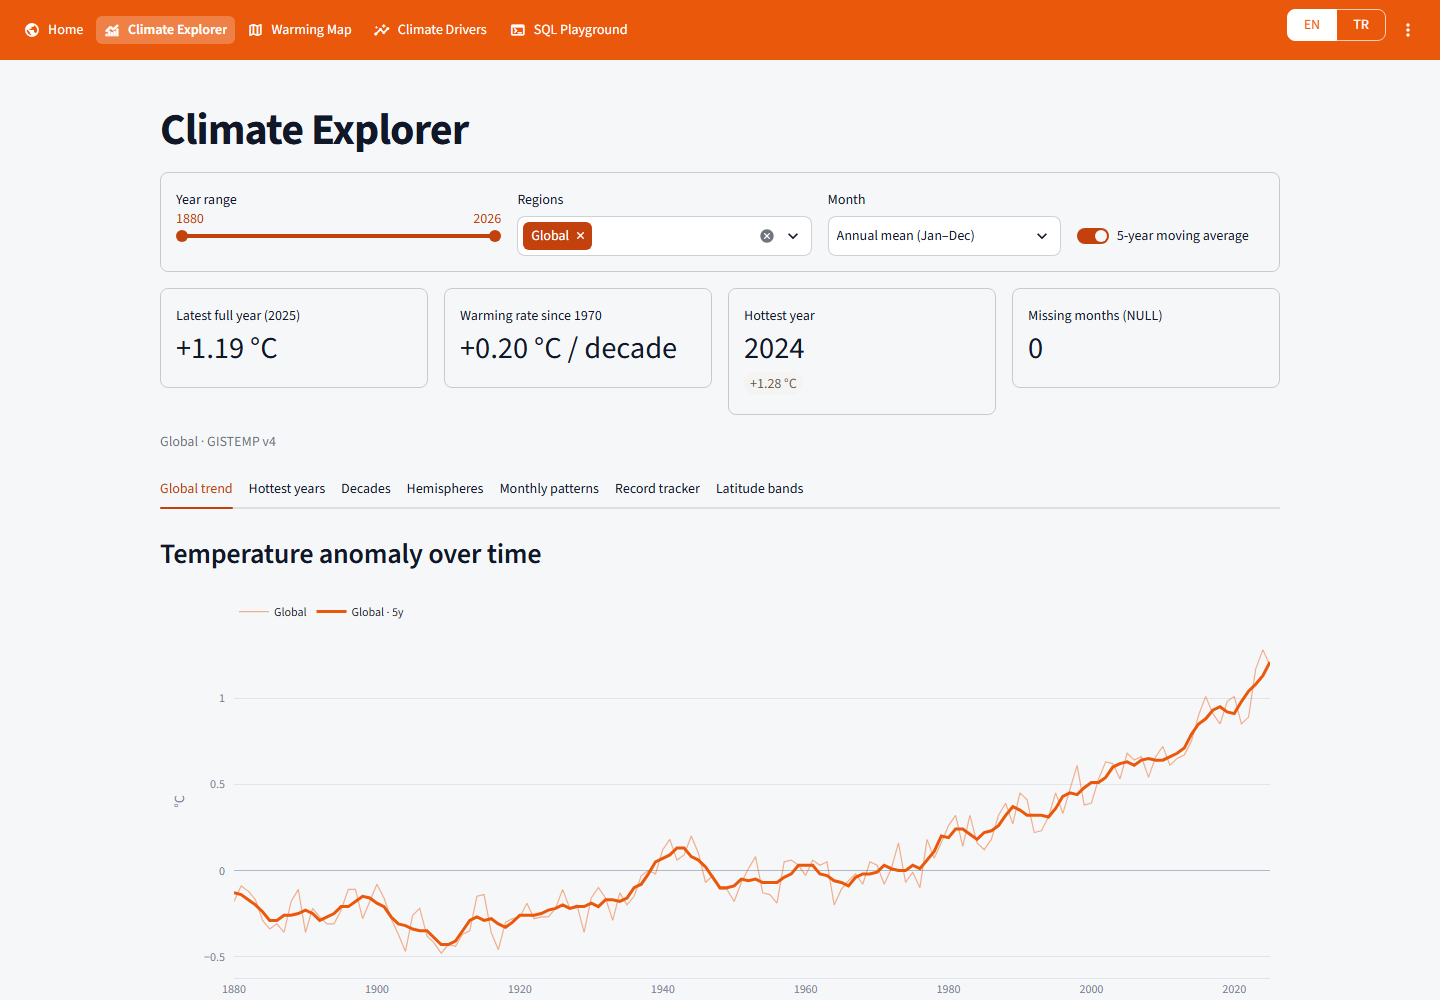
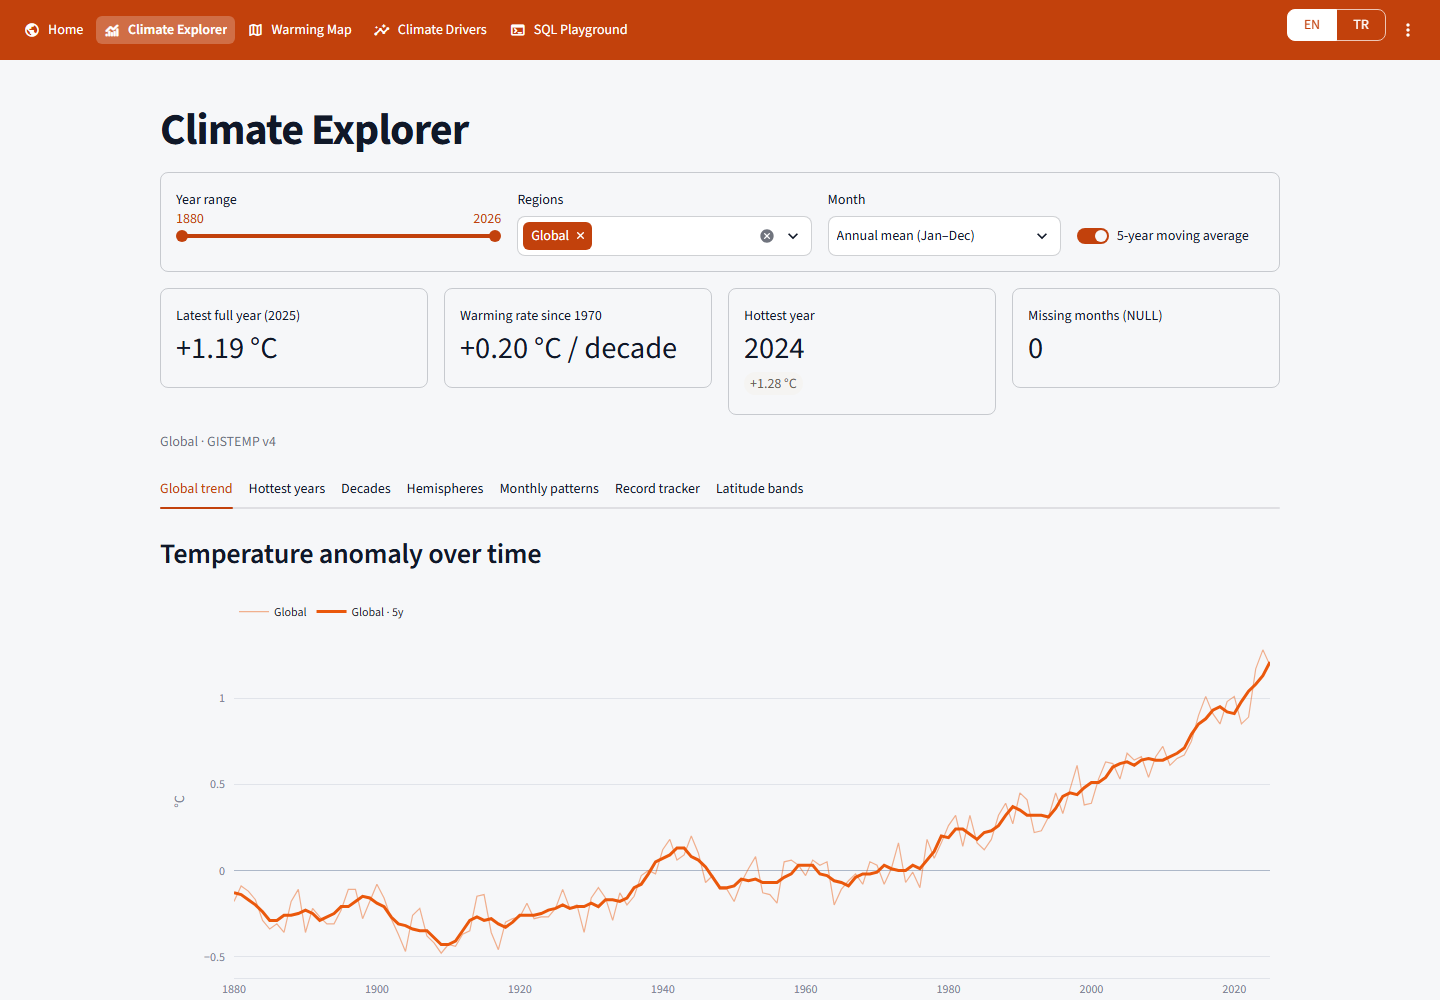
Match the top bar to the accent colour and rebalance the home hero around the globe

Changed region(s): [[0.0, 0.0, 1.0, 0.062]]

diff --git a/app/components.py b/app/components.py
@@ -43,8 +43,8 @@ def page_style() -> None:
           .block-container, [data-testid="stMainBlockContainer"] { padding-top: 3.2rem; max-width: 1280px; }
           /* The EN/TR switch sits in the top bar instead of taking a row of every page. */
           .st-key-lang_toggle { position: fixed; top: 0.55rem; right: 3.4rem; z-index: 999991; width: auto !important; }
-          /* Orange top bar with white navigation on both themes. */
-          [data-testid="stHeader"] { background: #EA580C; }
+          /* Top bar in the accent of the buttons, sliders and tabs (primaryColor), white navigation. */
+          [data-testid="stHeader"] { background: #C2410C; }
           [data-testid="stTopNavLink"], [data-testid="stTopNavLink"] *,
           [data-testid="stMainMenuButton"], [data-testid="stMainMenuButton"] * { color: #FFFFFF !important; }
           [data-testid="stTopNavLink"]:hover { background: rgba(255, 255, 255, 0.16) !important; }
@@ -52,7 +52,7 @@ def page_style() -> None:
             background: rgba(255, 255, 255, 0.24) !important; }
           .st-key-lang_toggle button { background: transparent !important; color: #FFFFFF !important;
                                        border-color: rgba(255, 255, 255, 0.7) !important; }
-          .st-key-lang_toggle button[aria-checked="true"] { background: #FFFFFF !important; color: #EA580C !important;
+          .st-key-lang_toggle button[aria-checked="true"] { background: #FFFFFF !important; color: #C2410C !important;
                                                             border-color: #FFFFFF !important; }
           .st-key-lang_toggle button * { color: inherit !important; }
           @media (max-width: 640px) {
@@ -62,7 +62,7 @@ def page_style() -> None:
           .stTextArea textarea { font-family: "JetBrains Mono", "Cascadia Code", Consolas, monospace;
                                  font-size: 0.9rem; line-height: 1.55; }
           h1, h2, h3 { letter-spacing: -0.02em; }
-          .gts-hero { font-size: 3.2rem; line-height: 1.05; font-weight: 700; margin: 0.4rem 0 1rem; color: inherit; }
+          .gts-hero { font-size: 3.6rem; line-height: 1.08; font-weight: 700; margin: 0.4rem 0 1rem; color: inherit; }
           .gts-hero span { color: #EA580C; }
           .gts-badge { display: inline-block; font-size: 0.8rem; font-weight: 600; color: #EA580C;
                        background: rgba(234, 88, 12, 0.12); border: 1px solid rgba(234, 88, 12, 0.35);

diff --git a/app/i18n.py b/app/i18n.py
@@ -32,8 +32,8 @@ TEXT: dict[str, dict[str, str]] = {
                             "tr": "145 yıllık küresel sıcaklık anomalisi verisini hazır analizlerle keşfedin ya da doğrudan "
                                   "PostgreSQL üzerinde kendi SQL sorgularınızı yazın. Her grafiğin arkasındaki sorgu açık."},
     "home.globe.title":    {"en": "Warming by latitude", "tr": "Enleme göre ısınma"},
-    "home.globe.caption":  {"en": "Each dot shows the mean anomaly of its latitude band over the last 10 years.",
-                            "tr": "Her nokta, bulunduğu enlem bandının son 10 yıllık ortalama anomalisini gösterir."},
+    "home.globe.caption":  {"en": "Mean anomaly of each latitude band over the last 10 years.",
+                            "tr": "Her enlem bandının son 10 yıllık ortalama anomalisi."},
     "home.globe.pause":    {"en": "Pause rotation", "tr": "Dönmeyi durdur"},
     "home.globe.play":     {"en": "Resume rotation", "tr": "Dönmeyi sürdür"},
     "home.fact.range":     {"en": "Coverage", "tr": "Veri aralığı"},

diff --git a/app/views/home.py b/app/views/home.py
@@ -100,7 +100,7 @@ def render_globe(fig: go.Figure) -> None:
     components.html(html, height=370)
 
 
-hero, globe = st.columns([1.05, 1], gap="large", vertical_alignment="center")
+hero, globe = st.columns([1.3, 1], gap="large", vertical_alignment="center")
 with hero:
     st.markdown(f'<span class="gts-badge">{t("home.badge")}</span>', unsafe_allow_html=True)
     st.markdown('<div class="gts-hero">Query the Data.<br><span>Understand the Climate.</span></div>',
